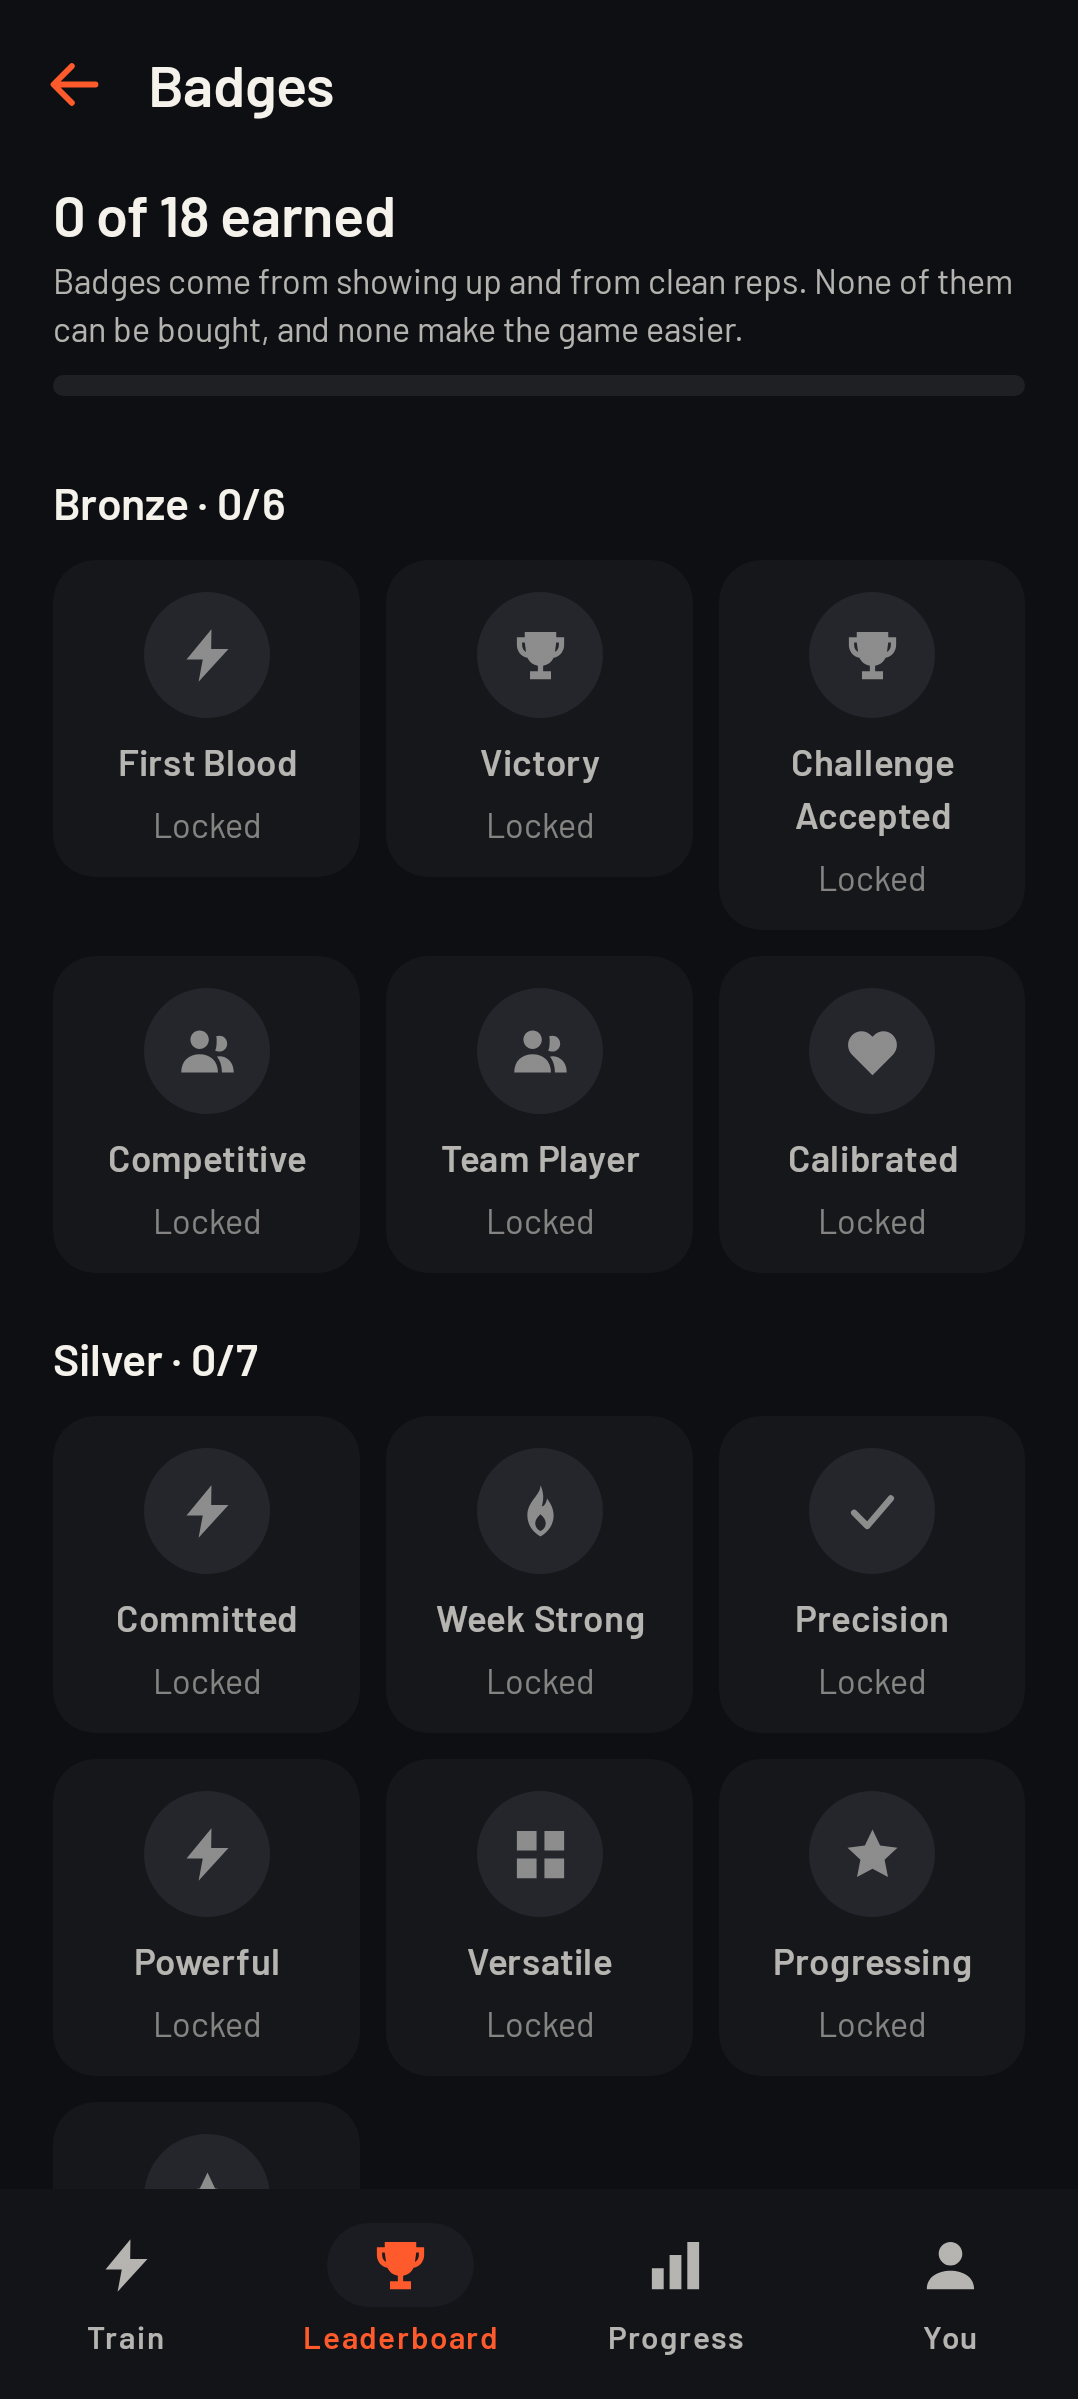
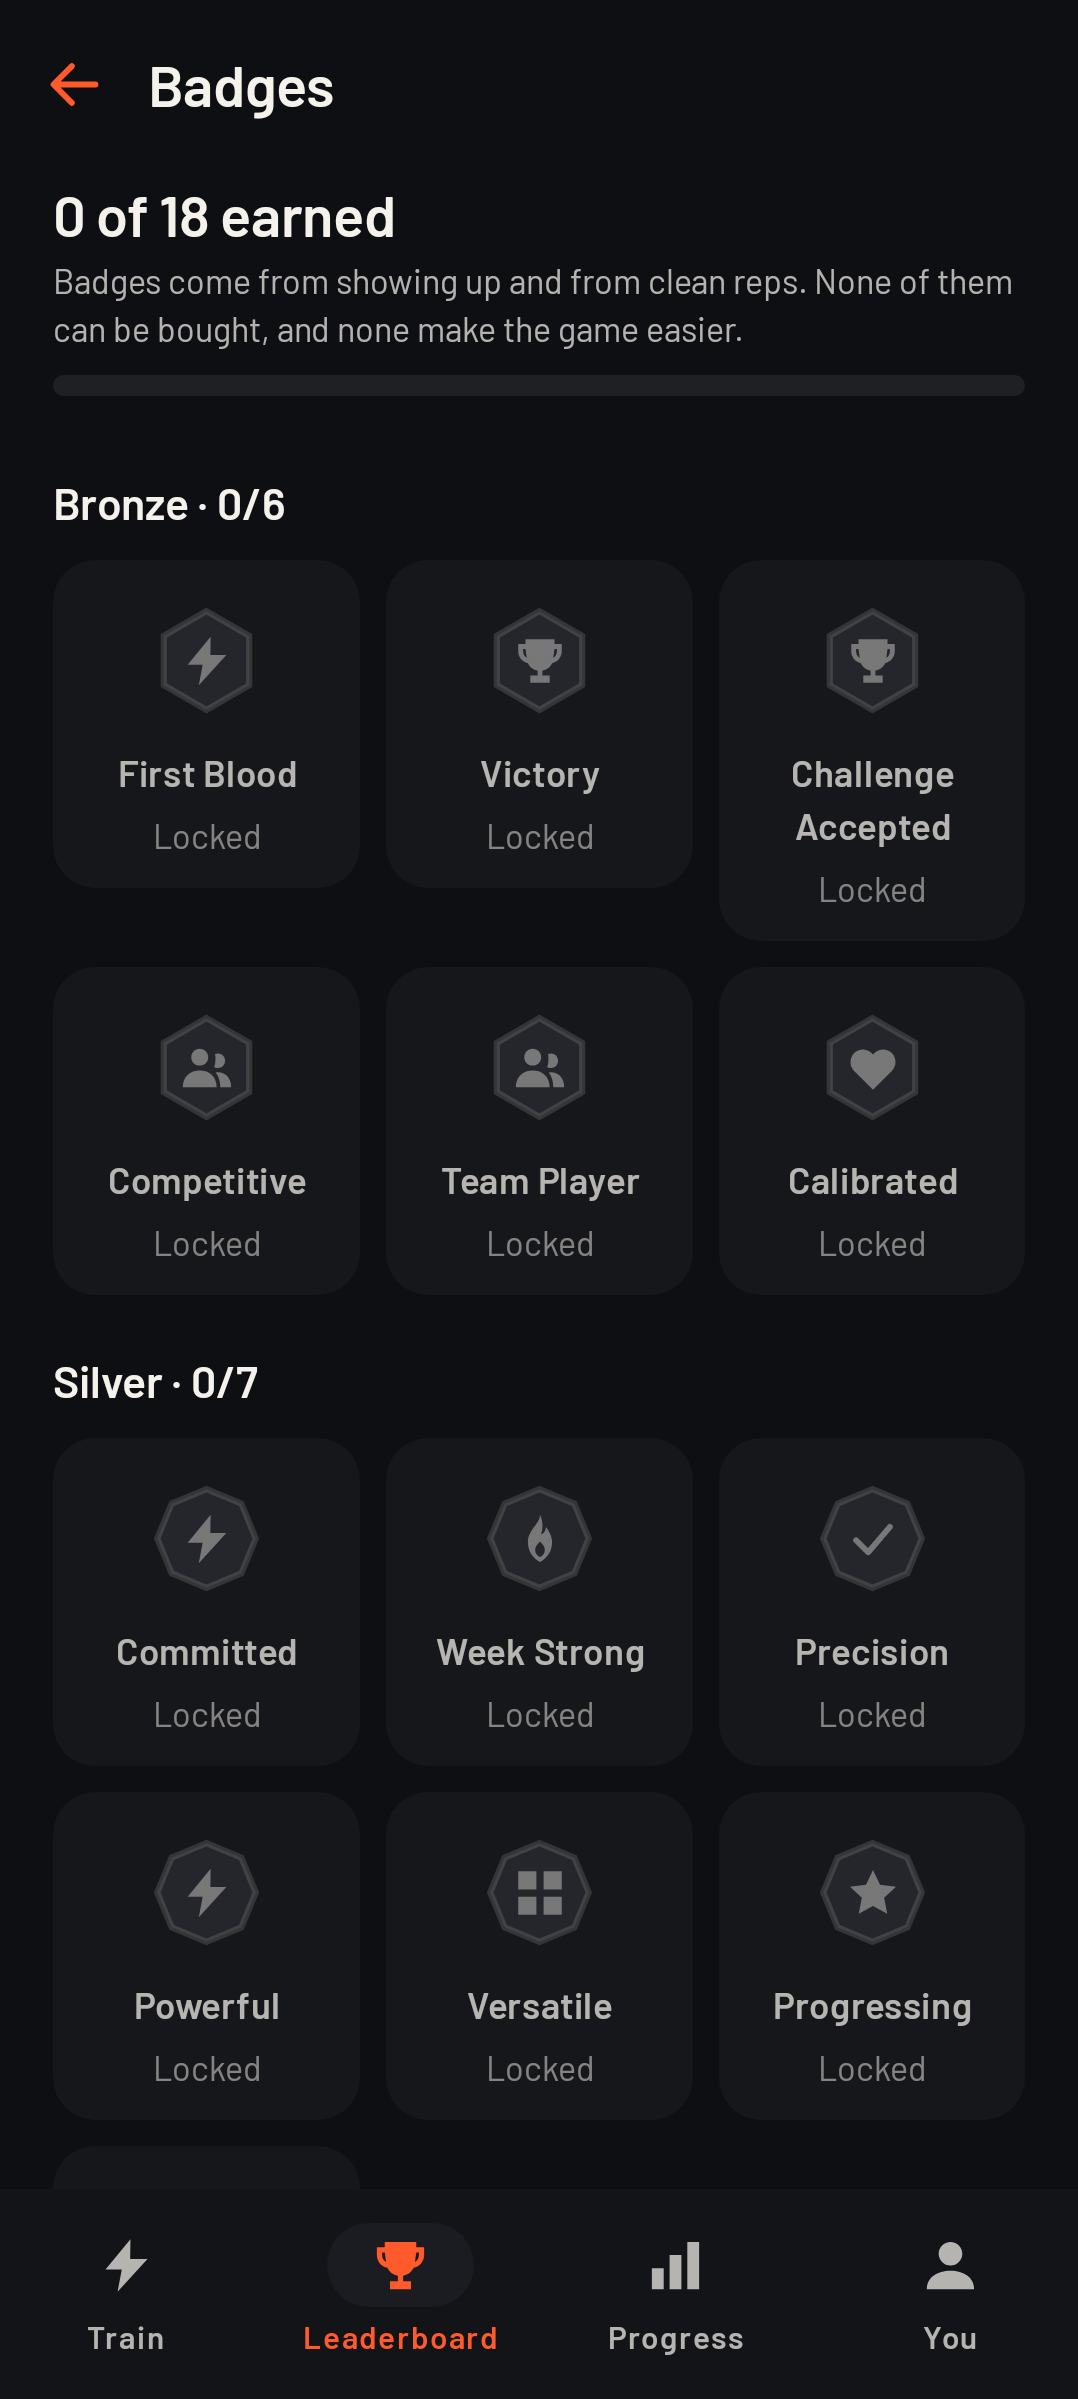
feat(android): badges are medals, and the tier is the shape
A badge that looks like every other badge is a checkbox. The tier is the whole
point of an achievement — bronze, silver and gold say how hard the thing was —
and it was carried only by the tint of an icon and a word underneath, which
means at a glance eighteen badges were eighteen identical grey circles.

The shape says it now. Bronze is a plain hexagonal plate, silver is notched to
eight sides, gold is rayed. A locked badge is the same outline with nothing in
it, so you can see which shape is missing from the set rather than reading
"Locked" eighteen times.

A sheet renders all three tiers earned and locked together, because a tier that
is only distinguishable when you already know what you are looking at is not
distinguishable.

556 tests, 60 screenshot baselines.

diff --git a/android/app/src/main/java/com/clashfit/ui/components/Progress.kt b/android/app/src/main/java/com/clashfit/ui/components/Progress.kt
@@ -45,8 +45,13 @@ import com.clashfit.ui.theme.InkMuted
 import com.clashfit.ui.theme.Motion
 import com.clashfit.ui.theme.Panel
 import com.clashfit.ui.theme.PanelLift
+import com.clashfit.ui.theme.Rule
 import com.clashfit.ui.theme.RuleSoft
 import com.clashfit.ui.theme.Silver
+import kotlin.math.sin
+import kotlin.math.cos
+import androidx.compose.ui.graphics.Path
+import androidx.compose.foundation.layout.fillMaxSize
 
 /* The progression widgets: rings, XP bars and badges. All animate on first composition. */
 
@@ -121,11 +126,55 @@ fun BadgeTile(achievement: Achievement, unlocked: Boolean, icon: ImageVector, mo
         horizontalAlignment = Alignment.CenterHorizontally,
         verticalArrangement = Arrangement.spacedBy(8.dp),
     ) {
-        Box(
-            Modifier.size(48.dp).clip(CircleShape).background(if (unlocked) tint.copy(alpha = 0.18f) else PanelLift),
-            contentAlignment = Alignment.Center,
-        ) {
-            Icon(icon, contentDescription = null, tint = tint, modifier = Modifier.size(24.dp))
+        // A medal, not a circle with a glyph in it.
+        //
+        // A badge that looks like every other badge is a checkbox. The tier is the whole point of
+        // an achievement — bronze, silver, gold say how hard it was — and it was carried only by
+        // the tint of an icon and a word underneath. Now the shape itself says it: bronze gets a
+        // plain plate, silver a notched one, gold a rayed one, and a locked badge is the same
+        // outline with nothing in it, so you can see what shape is missing from the set.
+        Box(Modifier.size(52.dp), contentAlignment = Alignment.Center) {
+            Canvas(Modifier.fillMaxSize()) {
+                val r = size.minDimension / 2f
+                val c = Offset(r, r)
+                val rays = achievement.tier == Tier.GOLD
+                val notches = achievement.tier != Tier.BRONZE
+
+                if (unlocked && rays) {
+                    for (i in 0 until 12) {
+                        val a = i * (2 * Math.PI.toFloat()) / 12
+                        drawLine(
+                            tint.copy(alpha = 0.55f),
+                            Offset(c.x + cos(a) * r * 0.80f, c.y + sin(a) * r * 0.80f),
+                            Offset(c.x + cos(a) * r * 0.99f, c.y + sin(a) * r * 0.99f),
+                            strokeWidth = r * 0.10f,
+                        )
+                    }
+                }
+
+                val sides = if (notches) 8 else 6
+                val plate = Path().apply {
+                    for (i in 0 until sides) {
+                        val a = i * (2 * Math.PI.toFloat()) / sides - (Math.PI.toFloat() / 2)
+                        val rad = r * 0.72f
+                        val p = Offset(c.x + cos(a) * rad, c.y + sin(a) * rad)
+                        if (i == 0) moveTo(p.x, p.y) else lineTo(p.x, p.y)
+                    }
+                    close()
+                }
+                drawPath(plate, if (unlocked) tint.copy(alpha = 0.20f) else PanelLift)
+                drawPath(
+                    plate,
+                    if (unlocked) tint else Rule,
+                    style = Stroke(width = r * 0.09f),
+                )
+            }
+            Icon(
+                icon,
+                contentDescription = null,
+                tint = if (unlocked) tint else InkFaint.copy(alpha = 0.4f),
+                modifier = Modifier.size(22.dp),
+            )
         }
         Text(
             achievement.title, style = MaterialTheme.typography.labelLarge, color = if (unlocked) Ink else InkMuted,

diff --git a/android/app/src/test/java/com/clashfit/ui/GameArtScreenshotTest.kt b/android/app/src/test/java/com/clashfit/ui/GameArtScreenshotTest.kt
@@ -29,6 +29,10 @@ import org.robolectric.annotation.Config
 import org.robolectric.annotation.GraphicsMode
 import com.clashfit.ui.components.FamilyMark
 import com.clashfit.core.model.Family
+import com.clashfit.ui.components.BadgeTile
+import com.clashfit.ui.components.AppIcons
+import com.clashfit.meta.Tier
+import com.clashfit.meta.Achievement
 
 /**
  * The drawn marks, on a sheet, at the sizes they are used.
@@ -73,6 +77,39 @@ class GameArtScreenshotTest {
         }
         repeat(3) { Thread.sleep(200); compose.waitForIdle() }
         compose.onRoot().captureRoboImage("screenshots/70-rank-ladder.png")
+    }
+
+    @Test
+    fun badgeTiers() {
+        val samples = listOf(Tier.BRONZE, Tier.SILVER, Tier.GOLD)
+        compose.setContent {
+            ClashFitTheme {
+                Column(
+                    Modifier.fillMaxSize().background(Ground).padding(16.dp),
+                    verticalArrangement = Arrangement.spacedBy(16.dp),
+                ) {
+                    listOf(true, false).forEach { unlocked ->
+                        Row(horizontalArrangement = Arrangement.spacedBy(12.dp)) {
+                            samples.forEach { tier ->
+                                BadgeTile(
+                                    Achievement(
+                                        id = tier.name.lowercase(),
+                                        title = tier.name.lowercase().replaceFirstChar { it.uppercase() },
+                                        description = if (unlocked) "Earned" else "Locked",
+                                        tier = tier,
+                                    ),
+                                    unlocked = unlocked,
+                                    icon = AppIcons.Star,
+                                    modifier = Modifier.weight(1f),
+                                )
+                            }
+                        }
+                    }
+                }
+            }
+        }
+        repeat(3) { Thread.sleep(200); compose.waitForIdle() }
+        compose.onRoot().captureRoboImage("screenshots/73-badge-tiers.png")
     }
 
     @Test
